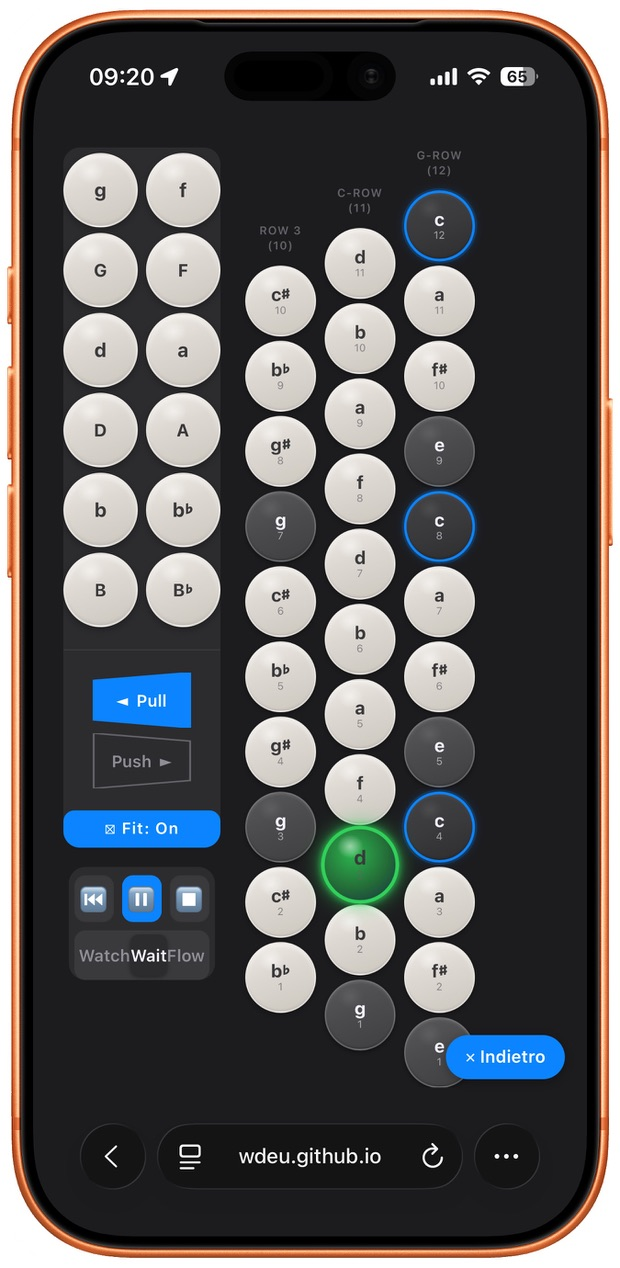
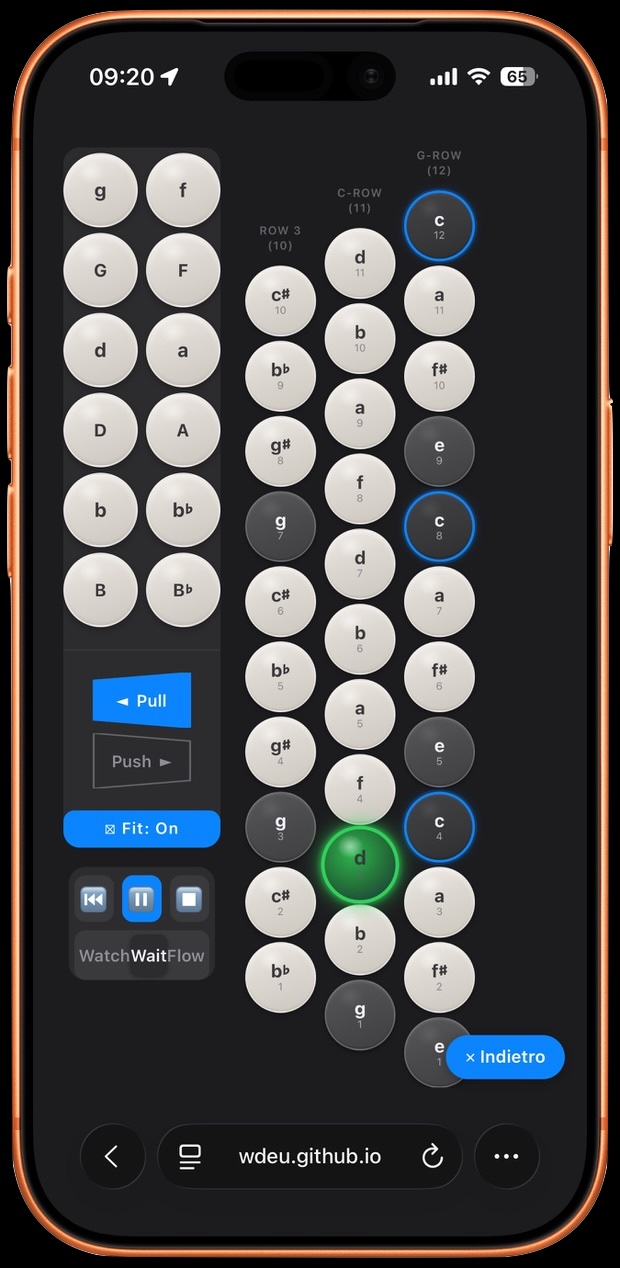
feat: localize Heim panel (EN/DE/FR/IT) + English docs (v5.13.0)  feat(i18n): Heim G/C info panel switches with the language selector — origin, key strengths, modal strengths, notation, chromatic note in EN/DE/FR/IT fix(i18n): apply markup-bearing i18n strings as HTML so emphasis survives translatio

Changed region(s): [[0.0, 0.0, 1.0, 1.0]]

diff --git a/CHANGELOG.md b/CHANGELOG.md
@@ -1,158 +1,106 @@
 # Changelog
 
-Alle wichtigen Änderungen an diesem Projekt werden in dieser Datei dokumentiert.
+All notable changes to this project are documented in this file.
+
+Format based on [Keep a Changelog](https://keepachangelog.com/en/1.0.0/); versioning follows [Semantic Versioning](https://semver.org/).
 
 ---
+
+## [5.13.0] - 2026-06-01
+
+### 🌍 Changed — Heim info fully localized
+- The **Heim G/C system panel** (origin, key strengths, modal strengths, notation, chromatic note) now switches with the language selector under the title (EN / DE / FR / IT).
+- i18n strings carrying inline markup are now applied as HTML, so emphasis survives translation.
+- Fixed the embedded Benny photo path (now `assets/hero-benny.jpg`).
 
 ## [5.12.0] - 2026-06-01
 
-### 🪂 Added — Roh-MIDI-Import (Fallschirm)
-- **`.mid`/`.midi`-Import** für Dateien, die nie in einem Notensatzprogramm aufbereitet wurden
-- **Akkordschätzung pro Takt** aus den Tonhöhen (Grundton+Terz+Quinte-Wertung), speist denselben Balg-Resolver
-- Melodie = oberste Stimme, Bass = tiefste gleichzeitige Note
-- Bekannte Grenze: nimmt 4/4 an; MusicXML mit echten Symbolen bleibt der genaue Weg
+### 🪂 Added — Raw MIDI import (parachute)
+- **`.mid` / `.midi` import** for the many files that were never prepared in a notation editor.
+- **Per-measure chord estimation** from a pitch-class tally (root + third + fifth scoring) feeds the same bellows resolver. Melody = top note, bass = lowest simultaneous note.
+- Known limitation: assumes 4/4; MusicXML with real chord symbols remains the accurate path.
 
 ### ❌ Removed
-- **Kür-Schalter „Balg-Geste abverlangen"** entfernt — Balg wird immer automatisch geschaltet und signalisiert
+- The "require bellows gesture (Kür)" toggle. The bellows now always switches automatically with the loud change signal.
 
 ## [5.11.0] - 2026-06-01
 
-### 🎤 Added — Mithören (echtes Instrument)
-- **🎤 Zuhören-Schalter im Wait-Modus** — Abspielkopf rückt vor, wenn das Mikro den richtigen Melodieton am echten Benny hört
-- Autokorrelations-Tonhöhenerkennung (RMS-Gate, Parabel-Interpolation), beide Hände bleiben am Instrument
-- **Aus per Default**, einmalige Mikro-Abfrage, automatischer Rückfall auf Tippen bei Verweigerung
-- Lokale Analyse, nichts verlässt das Gerät
+### 🎤 Added — Listen mode (real instrument)
+- **🎤 Listen toggle inside Wait** — the play-head advances when the microphone hears the correct melody pitch on the real Benny, so both hands stay on the instrument.
+- Autocorrelation pitch detector (RMS-gated, parabolic interpolation), validated across the Benny treble range.
+- **Off by default**, one-time microphone permission, automatic fallback to tapping if denied or unavailable.
+- Audio is analysed locally; nothing leaves the device.
 
 ## [5.10.0] - 2026-06-01
 
-### 🎵 Added — Bass für geladene Stücke
-- **Plan A:** Bass aus echter Notenzeile (tiefste Begleitnote, über alle Parts/Systeme)
-- **Plan B:** Bass aus Akkordsymbolen, wenn keine Bass-Zeile vorhanden
-- Bass-Knopf leuchtet (und klingt in Watch) mit dem Melodieton, in derselben Balgrichtung
-- Melodie jetzt auf System 1 beschränkt — linke Klavierhand verunreinigt die Melodielinie nicht mehr
+### 🎵 Added — Bass for loaded pieces
+- **Plan A:** bass from a real notated staff (lowest accompaniment note, across all parts/staves).
+- **Plan B:** bass distilled from chord symbols when no bass staff exists.
+- The bass button lights (and sounds in Watch) with the melody note, in the shared bellows direction.
+- Melody is now restricted to staff 1, so a piano left hand no longer pollutes the lead line.
 
 ## [5.9.0] - 2026-05-31
 
-### 🎼 Added — Play-Along Song-Modus + MusicXML-Import
-- **Abspielkopf mit Watch / Wait / Flow** — Übe-Kontinuum von „spielt sich selbst" bis „du hältst im Tempo mit"
-- **Resolver** bildet Tonhöhe + Akkord auf Knopf + Balgrichtung ab (aus `BUTTON_OCTAVES`)
-- **Auto-Balgwechsel** plus unübersehbares Signal (blauer Rahmen + Flackern)
-- **Wait-Modus** wartet auf den richtigen Knopf, keine Strafe bei Fehlgriff
-- **MusicXML-Import** (`.mxl`/`.xml`): bibliotheksfreies ZIP-Entpacken (`DecompressionStream`) + DOMParser
-- **Temposlider** 40–200 bpm
+### 🎼 Added — Play-Along song mode + MusicXML import
+- **Play-head with Watch / Wait / Flow** — a practice continuum from "plays itself" to "you keep up at tempo".
+- **Resolver** maps pitch + chord to button + bellows direction (from `BUTTON_OCTAVES`).
+- **Automatic bellows switching** with an unmissable signal (blue frame + flicker).
+- **Wait mode** holds for the correct button; no penalty for a wrong one.
+- **MusicXML import** (`.mxl` / `.xml`): library-free ZIP unzip via `DecompressionStream` + DOMParser.
+- **Tempo slider** 40–200 bpm.
 
 ### 🐛 Fixed
-- Fehlender `#fitToggleBtn` (Null-Fehler, der Play-Along in v5.8.x lahmlegte)
-- Song-Panel im Play-Along kompakt → Bass + Diskant passen im iPhone-Porträt nebeneinander
-- Obere, redundante Balgrichtungs-Anzeige entfernt (Platz gespart)
+- Missing `#fitToggleBtn` (null error that broke Play-Along in v5.8.x).
+- Compact song panel in Play-Along so bass + treble fit side by side on iPhone portrait.
+- Removed the redundant upper bellows-direction switch to save space.
 
 ## [5.3.0] - 2026-05-20
 
-### Added — iPad ONE-Screen Layout
-- **3-Spalten-Raster** (Bass | Diskant | Jam-Box), alles ohne Scrollen sichtbar
-- **Temposlider** und **Loop ∞** fürs Arpeggio, **Stop-Button**
-- **Modal-Highlighting** — nur Skalentöne leuchten
-- Icon-Set v2
-
----
+### Added — iPad one-screen layout
+- **3-column grid** (Bass | Treble | Jam-Box), all visible without scrolling.
+- **Tempo slider** and **Loop ∞** for the arpeggio, plus a **Stop** button.
+- **Modal highlighting** — only scale tones light up.
+- Icon set v2.
 
 ## [5.0.0] - 2026-05-16
 
-### 🎵 Added - Audio Engine
-- **Web Audio API Integration** – Akkorde hörbar machen ohne MIDI-Hardware
-- **4 Klang-Typen:**
-  - Akkordeon-like (warm mit Obertönen)
-  - Rein (Sinus, clean)
-  - Hell (brillante Obertöne)
-  - Weich ausklingend (langer Decay)
-- **Duration-Control** – 1-5 Sekunden einstellbare Wiedergabedauer
-- **Auto-Play Toggle** – Optional automatisch abspielen bei Akkordwechsel
+### 🎵 Added — Audio engine
+- **Web Audio API** — chords audible without MIDI hardware.
+- **4 tone types:** Accordion-like (warm), Pure (sine), Bright (sawtooth), Mellow (long decay).
+- **Duration control** (1–5 s) and an **auto-play** toggle.
 
-### 🎼 Added - Erweiterte Akkorde
-- **13 Akkordtypen** (vorher 6):
-  - Dreiklänge: Dur, Moll, dim, aug, sus2, sus4
-  - Septakkorde: 7, maj7, m7, dim7, m7b5
-  - Sixte: 6, m6
-- **4 Modale Skalen:** Dorisch, Mixolydisch, Phrygisch, Lydisch (unverändert)
+### 🎼 Added — Extended chords
+- **13 chord types** (up from 6): triads (major, minor, dim, aug, sus2, sus4), sevenths (7, maj7, m7, dim7, m7b5), sixths (6, m6).
+- **4 modal scales:** Dorian, Mixolydian, Phrygian, Lydian.
 
-### ⚠️ Added - Benny-Verfügbarkeits-Check
-- **Warnung-System** – Zeigt an, welche Töne auf dem Benny C/G nicht verfügbar sind
-- **Pädagogischer Wert** – Audio spielt vollständigen Akkord, Visualisierung zeigt nur verfügbare Töne
-- **Lerneffekt** – User versteht, welche Akkorde gut auf Benny funktionieren
+### ⚠️ Added — Benny availability check
+- Warns which notes are unavailable on the Benny C/G; audio plays the full chord while the visualisation shows only playable tones.
 
-### 🎹 Added - Bass-Integration
-- **Bass-Shortcuts im Akkordmodus:**
-  - Klick "D" (Großbuchstabe) → D-Dur
-  - Klick "d" (Kleinbuchstabe) → d-Moll
-- **Schneller Workflow** – Ein Klick statt zwei (Typ + Grundton)
+### 🎹 Added — Bass integration
+- Bass shortcuts in chord mode: uppercase root → major, lowercase → minor.
 
-### 📜 Added - Attribution
-- **MIT License Credit** – Audio-Konzept inspiriert von Harmonic Extension
-- **Code-Kommentare** – Klare Quellenangabe im JavaScript
-- **README Credits-Sektion** – Öffentliche Anerkennung von @chandlervdw
-
-### ❌ Removed - Normal-Modus
-- **Normal-Modus komplett entfernt** – Fokus auf Akkord-Lernen mit Audio
-- **Stück-Dropdown entfernt** – Wird später als separates Feature wiederkommen
-- **Grund:** Feedback dass Normal-Modus beim Lernen nicht hilft
-
-### 🔧 Changed - UI Optimierung
-- **Audio-Controls** direkt im Akkord-Panel integriert
-- **Play-Button** prominent platziert (blau, iOS-Style)
-- **Kompakteres Layout** – mehr Platz für Keyboard-Visualisierung
-
-### 🐛 Fixed
-- Balgrichtung-Wechsel aktualisiert jetzt korrekt die Labels
-- CSS-Klassen für inactive/active/root States optimiert
-
----
+### ❌ Removed
+- Normal mode and the piece dropdown (returned later as the dedicated song mode).
 
 ## [4.0.0] - 2026-02
 
-### Added - iOS Design Refresh
-- **Grautöne-Dominanz** – iOS Human Interface Guidelines
-- **Perlmutt-Buttons** – Sichtbar auf hellen & dunklen Displays
-- **Side-by-Side Layout** – Bass links, Diskant rechts (Desktop/Tablet)
-- **Auto-Rotation** – iPhone Landscape → automatisch Side-by-Side
-- **PWA Icons** – Benny.png als Favicon & Home-Screen Icon
-
-### Changed
-- **Grundton-Buttons** – Jetzt direkt im Akkord-Panel (kein Scrollen)
-- **Workflow optimiert** – Alle Controls auf einen Blick
-- **Bass-Triaden** – Groß-/Kleinbuchstabe Logik im Normal-Modus
+### Added — iOS design refresh
+- Greyscale palette, pearl buttons, side-by-side bass/treble layout, auto-rotation, PWA icons.
 
 ### Removed
-- **MIDI Support** – Zu nische, kaum Hardware vorhanden
-- **"Alle löschen" Button** – Überflüssig durch Auto-Clear
-
----
+- MIDI hardware support (too niche); the "clear all" button (made redundant by auto-clear).
 
 ## [3.0.0] - 2025-11
 
 ### Added
-- Akkordmodus mit Dur/Moll/7/maj7/dim/aug
-- Modale Skalen (Dorisch, Mixolydisch, Phrygisch, Lydisch)
-- Normal-Modus mit 5 Bourrées/Polkas
-
----
+- Chord mode (major/minor/7/maj7/dim/aug), modal scales, and a normal mode with several bourrées and polkas.
 
 ## [2.0.0] - 2025-09
 
 ### Added
-- Push/Pull Visualisierung
-- Spieler-Perspektive (Helfer links, G rechts)
-- Responsive Design
-
----
+- Push/Pull visualisation, player's perspective, responsive design.
 
 ## [1.0.0] - 2025-08
 
 ### Added
-- Initiale Version
-- Button-Layout für Castagnari Benny C/G
-- Heim-Belegung (nicht Standard!)
-
----
-
-**Format:** Basiert auf [Keep a Changelog](https://keepachangelog.com/de/1.0.0/)  
-**Versionierung:** [Semantic Versioning](https://semver.org/lang/de/)
+- Initial version: button layout for the Castagnari Benny C/G, Heim tuning.